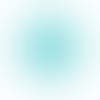
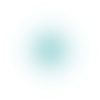
Fixes placemark

diff --git a/src/components/Stats.js b/src/components/Stats.js
@@ -26,9 +26,9 @@ export default React.createClass({
     var icon = L.icon({
       iconUrl: 'assets/images/blurred-marker.png',
       shadowUrl: 'assets/images/blurred-marker.png',
-      iconSize: [30, 30],
+      iconSize: [60, 60],
       shadowSize: [10, 10],
-      iconAnchor: [15, 15],
+      iconAnchor: [30, 30],
       shadowAnchor: [5, 5]
     });
 
